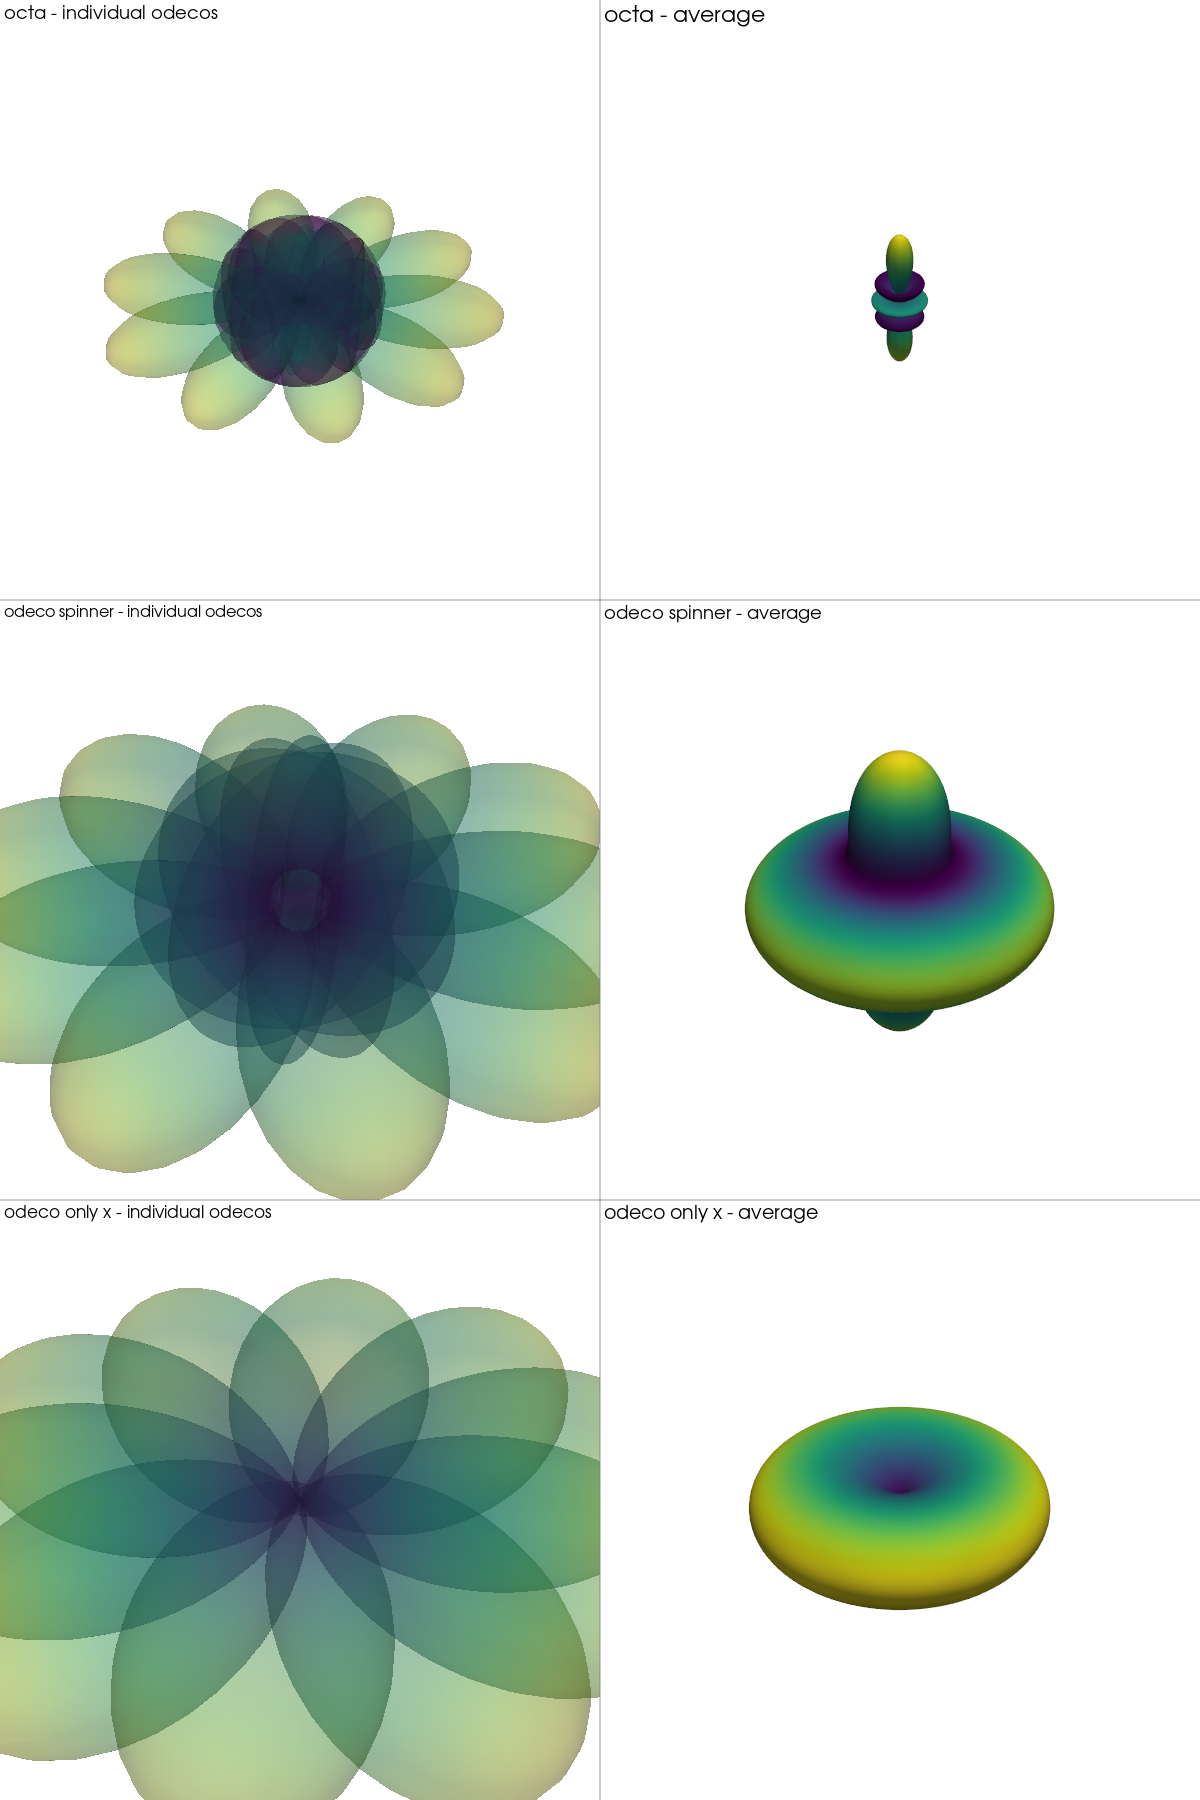
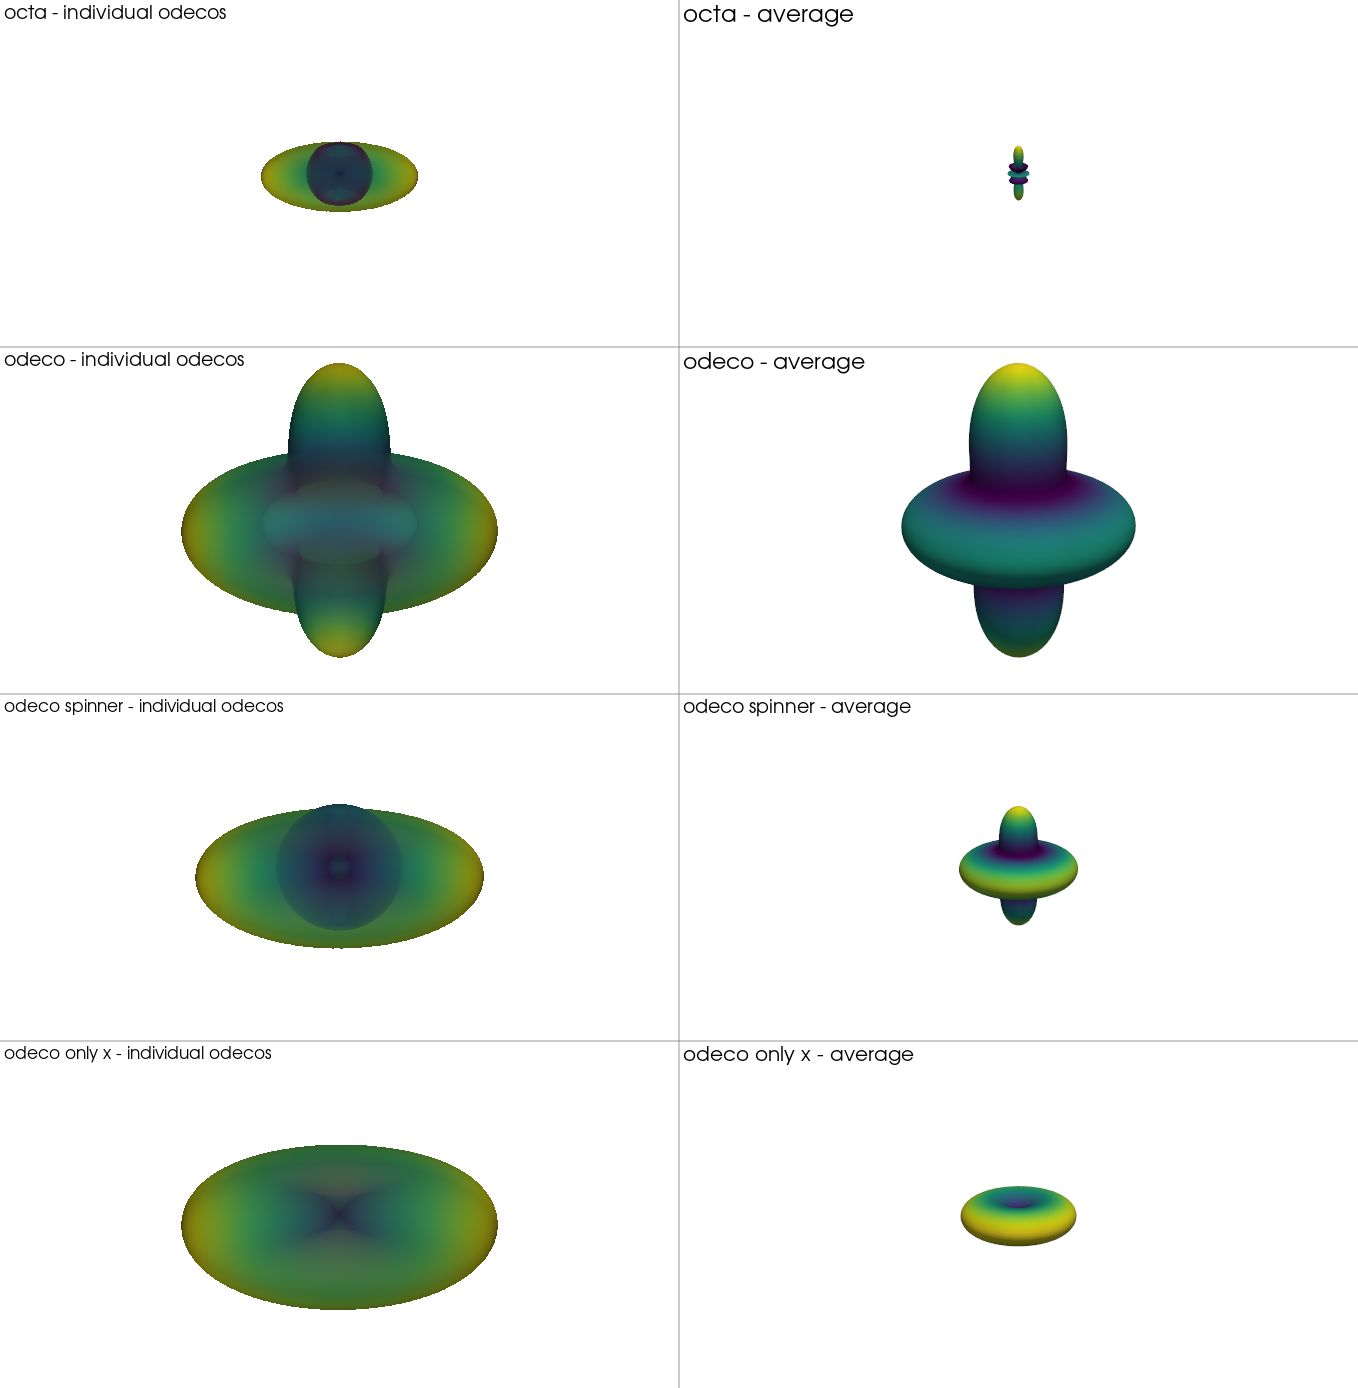
fix energy and average plot

diff --git a/spherical-harmonics-visualization/src/energy_visualization.py b/spherical-harmonics-visualization/src/energy_visualization.py
@@ -29,79 +29,38 @@ FILES = {
 ENERGY_RE = re.compile(r"^energy_current=([-+]?\d*\.?\d+(?:[eE][-+]?\d+)?)\s*$")
 
 
-def parse_energy_blocks(filepath: str) -> list[list[float]]:
-    """Extract energy_current values from a log file, grouped into blocks.
-
-    Each run of consecutive `energy_current=<num>` lines is one block
-    (these correspond to one refinement/tree-depth stage, e.g. everything
-    between two "Depth N tree has ..." lines). Any other line (mesh info,
-    tree stats, timing, blank lines, etc.) ends the current block. Blocks
-    are returned in file order; each block is the list of energy values
-    for that stage.
+def parse_energy(filepath: str) -> list[float]:
+    """Extract energy_current values from a log file, flattened to one list
     """
-    blocks: list[list[float]] = []
-    current: list[float] = []
+
+    energy: list[float] = []
     with open(filepath, "r") as f:
         for line in f:
             match = ENERGY_RE.match(line.strip())
             if match:
-                current.append(float(match.group(1)))
-            elif current:
-                blocks.append(current)
-                current = []
-    if current:
-        blocks.append(current)
-    return blocks
-
-
-def blocks_to_xy(blocks: list[list[float]]) -> tuple[list[float], list[float]]:
-    """Flatten blocks into (x, y) with each block normalized to unit width.
-
-    Block i occupies the x-range [i, i+1), with its samples evenly spaced
-    across that range regardless of how many samples the block has. This
-    way, block/refinement-stage boundaries line up at the same x position
-    (0, 1, 2, ...) across files even when files have different numbers of
-    samples per stage.
-    """
-    xs: list[float] = []
-    ys: list[float] = []
-    for i, block in enumerate(blocks):
-        n = len(block)
-        if n == 1:
-            positions = [0.0]
-        else:
-            positions = [j / (n - 1) for j in range(n)]
-        xs.extend(i + p for p in positions)
-        ys.extend(block)
-    return xs, ys
+                energy.append(float(match.group(1)))
+    return energy
 
 
 def main() -> None:
     plt.figure(figsize=(11, 6))
 
-    max_blocks = 0
     for label, path in FILES.items():
         if not os.path.exists(path):
             print(f"Warning: file not found, skipping: {path}")
             continue
 
-        blocks = parse_energy_blocks(path)
-        if not blocks:
+        energy = parse_energy(path)
+        if not energy:
             print(f"Warning: no energy_current values found in: {path}")
             continue
 
-        max_blocks = max(max_blocks, len(blocks))
-        xs, ys = blocks_to_xy(blocks)
-        total_n = sum(len(b) for b in blocks)
-        plt.plot(xs, ys, label=f"{label} ({len(blocks)} stages, n={total_n})", linewidth=1.2)
+        total_n = len(energy)
+        plt.plot(energy, label=f"{label} (n={total_n})", linewidth=1.2)
 
-    # Vertical guides + integer ticks at each refinement-stage boundary
-    for i in range(max_blocks + 1):
-        plt.axvline(i, color="gray", linewidth=0.5, alpha=0.3)
-
-    plt.xlabel("Refinement stage (depth), each stage normalized to unit width")
+    plt.xlabel("Iteration")
     plt.ylabel("energy_current")
-    plt.title("Energy convergence: odeco vs octa, sphere vs torus (aligned by refinement stage)")
+    plt.title("Energy convergence: odeco vs octa, sphere vs torus")
     plt.legend()
     plt.grid(True, axis="y", alpha=0.3)
     plt.tight_layout()

diff --git a/spherical-harmonics-visualization/src/averaging.py b/spherical-harmonics-visualization/src/averaging.py
@@ -1,16 +1,18 @@
 import numpy as np
 import pyvista as pv
 
+from tqdm import tqdm
+
 from odeco import canonical_odeco, generate_sh_values_from_coordinates
 from rotations import rotate_z, rotate_x
 
-n = 5
+n = 1000
 
 bases = {
     "octa": rotate_x(np.pi / 2) @ np.array(
         [0, 0, 0, 0, 0, 0, 0, 0, 0, 0, 0.6, 0, 0, 0, 0]
     ),
-    # "odeco": canonical_odeco(1, 1, 1),
+    "odeco": canonical_odeco(1, 1, 1),
     "odeco spinner": rotate_x(np.pi / 2) @ np.array(
         [1, 0, 0, 0.2, 0, 0, 0, 0, 0, 0, 0.6, 0, 0, 0, 0]
     ),
@@ -47,17 +49,23 @@ def add_odeco_surface(plotter, coords, opacity=1.0):
 
 plotter = pv.Plotter(shape=(len(bases), 2), window_size=(1200, 600 * len(bases)))
 
-for row, (name, base) in enumerate(bases.items()):
-    odeco_coords, average = compute_odeco_set(base, n)
+total = len(bases) * (n + 1)
 
-    plotter.subplot(row, 0)
-    plotter.add_text(f"{name} - individual odecos", font_size=10)
-    for coords in odeco_coords:
-        add_odeco_surface(plotter, coords, opacity=0.3)
+with tqdm(total=total, desc="Odecos") as pbar:
+    for row, (name, base) in enumerate(bases.items()):
+        pbar.set_postfix(base=name)
 
-    plotter.subplot(row, 1)
-    plotter.add_text(f"{name} - average", font_size=10)
-    add_odeco_surface(plotter, average, opacity=1.0)
+        odeco_coords, average = compute_odeco_set(base, n)
 
+        plotter.subplot(row, 0)
+        plotter.add_text(f"{name} - individual odecos", font_size=10)
+        for coords in odeco_coords:
+            add_odeco_surface(plotter, coords, opacity=0.3)
+            pbar.update(1)
+
+        plotter.subplot(row, 1)
+        plotter.add_text(f"{name} - average", font_size=10)
+        add_odeco_surface(plotter, average, opacity=1.0)
+        pbar.update(1)
 plotter.link_views()
 plotter.show(screenshot="./average.png")
